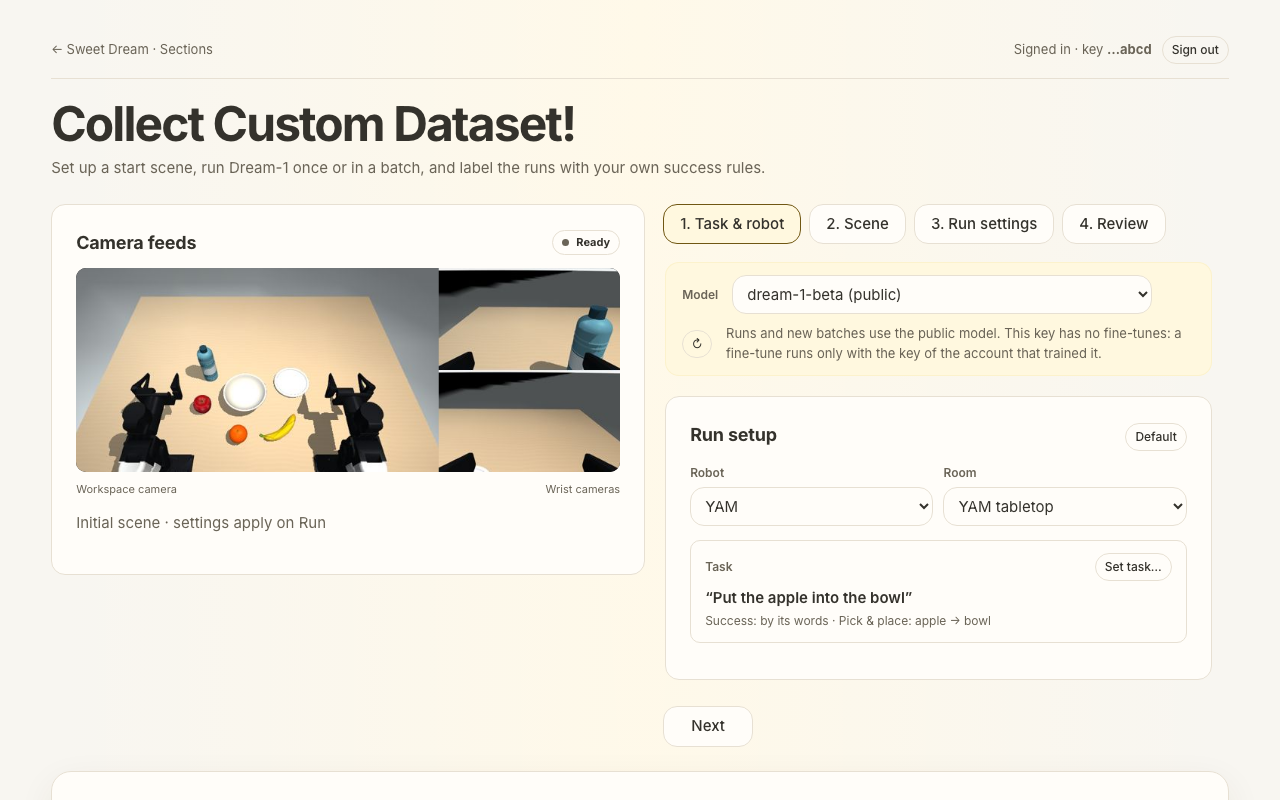
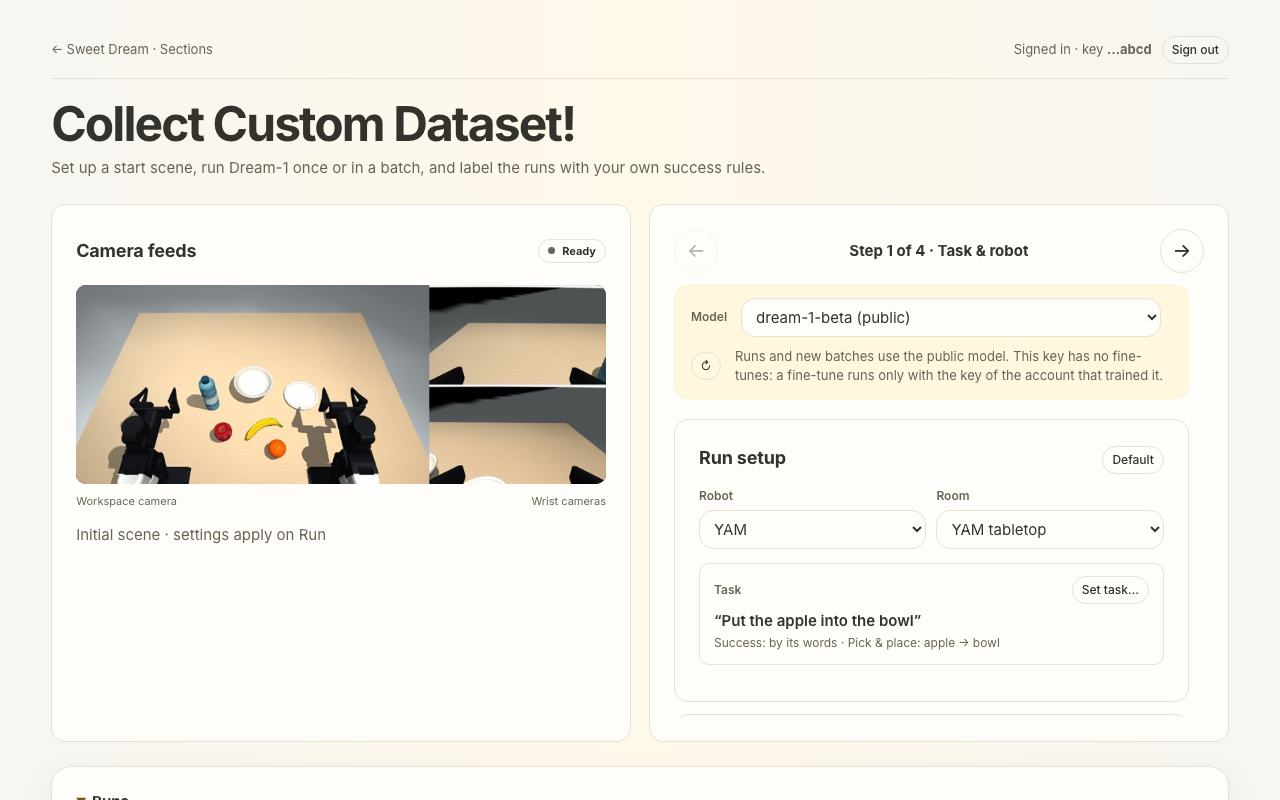
Screenshots of Collect, its batch settings and Test follow the arrow-guided setup
The three pages changed by the aligned camera panels and the arrow-guided
setup are taken again: Collect at "Step 1 of 4 · Task & robot", its batch
settings at "Step 3 of 4 · Run settings", and Test at its first step. The
other five shots are unchanged. tools/screenshots.py reaches Run settings
with the next-step arrow, now that the setup has no numbered tabs.

diff --git a/tools/screenshots.py b/tools/screenshots.py
@@ -111,9 +111,11 @@ def main():
                                            "height": min(780, SIZE["height"] - max(0, box["y"] - 12))})
 
         # 4. Collect: a batch, with its settings.
-        # The batch settings are in the setup's third step, Run settings.
+        # The batch settings are in the setup's third step, Run settings: two steps on with the arrow.
         page.evaluate("() => window.scrollTo(0, 0)")
-        page.click("#stageNav button:nth-child(3)")
+        for _ in range(2):
+            page.click("#nextStage")
+        page.wait_for_function("() => document.getElementById('stageTitle').textContent.startsWith('Step 3')")
         page.click("#modeBatch")
         page.evaluate("() => { const w = document.getElementById('wizard'); window.scrollTo(0, w.getBoundingClientRect().top + scrollY - 24); }")
         shot("04-collect-batch", 1200)
